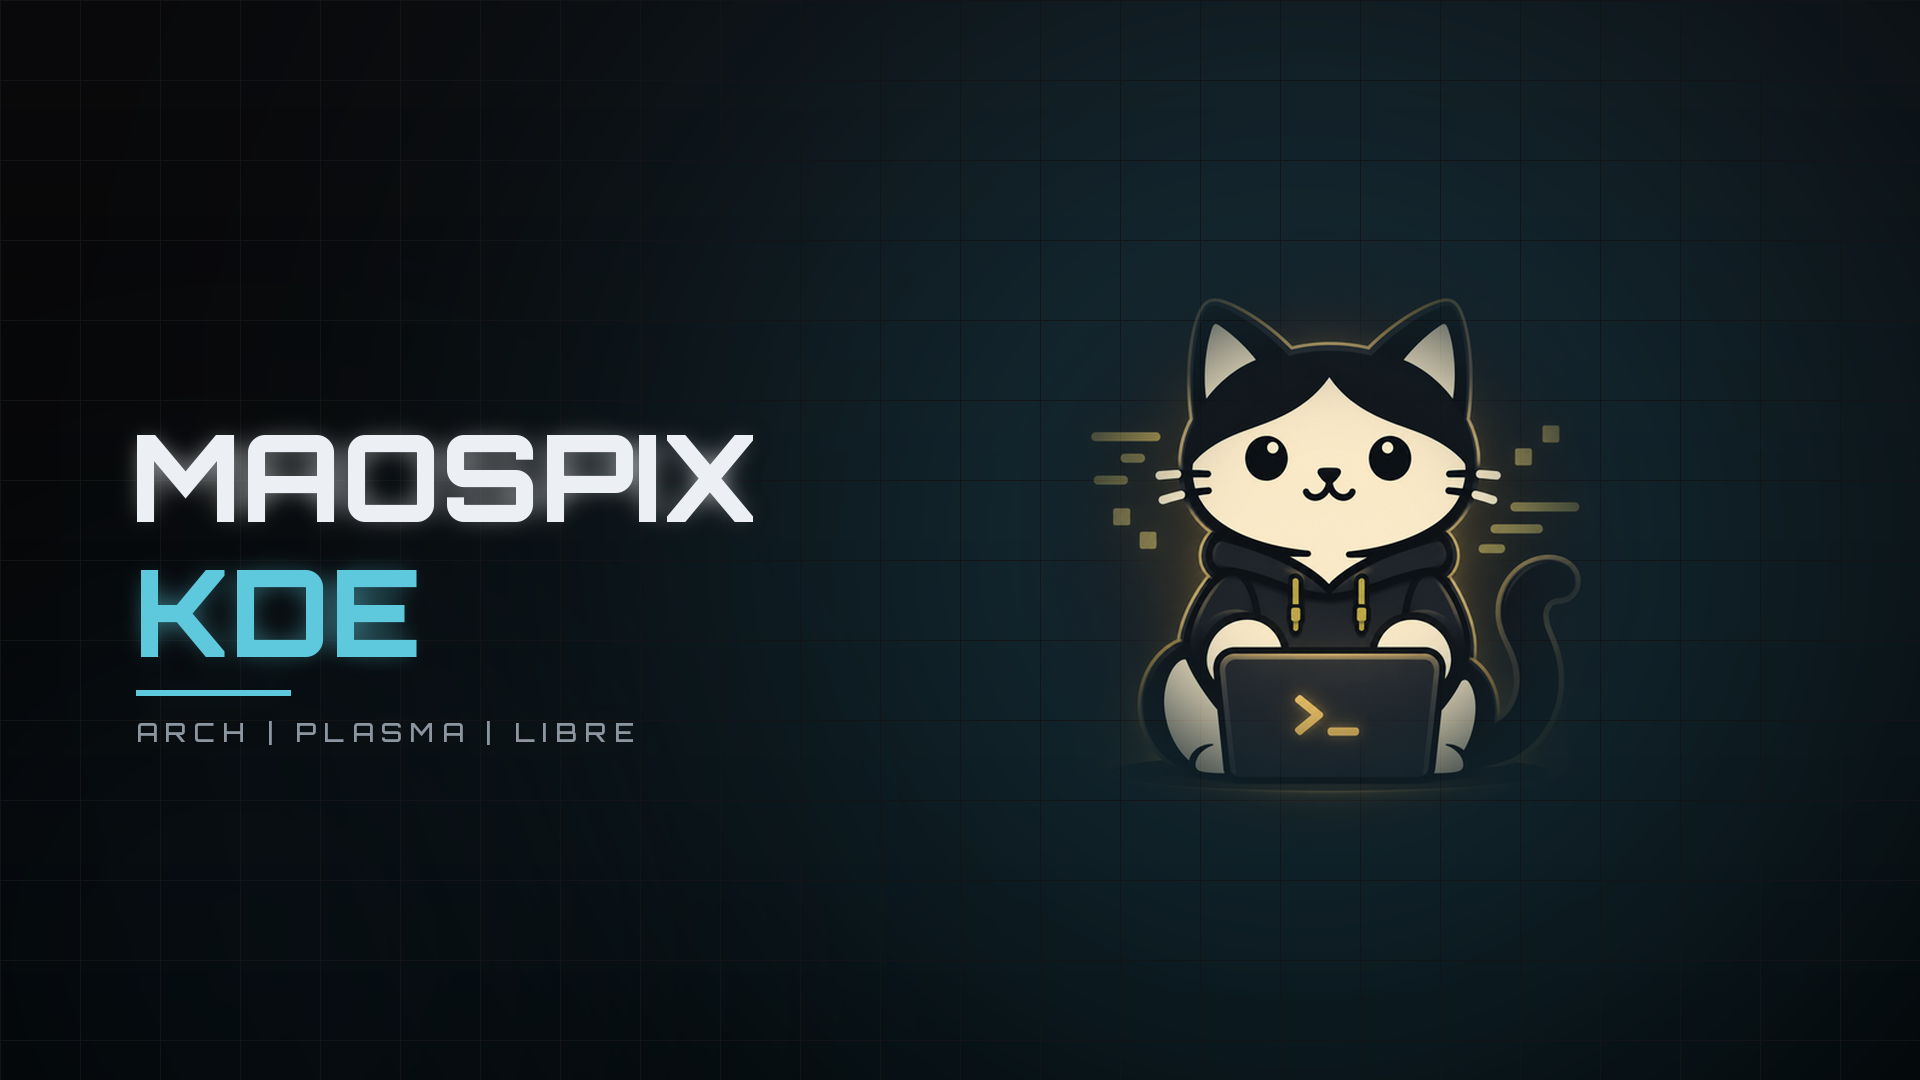
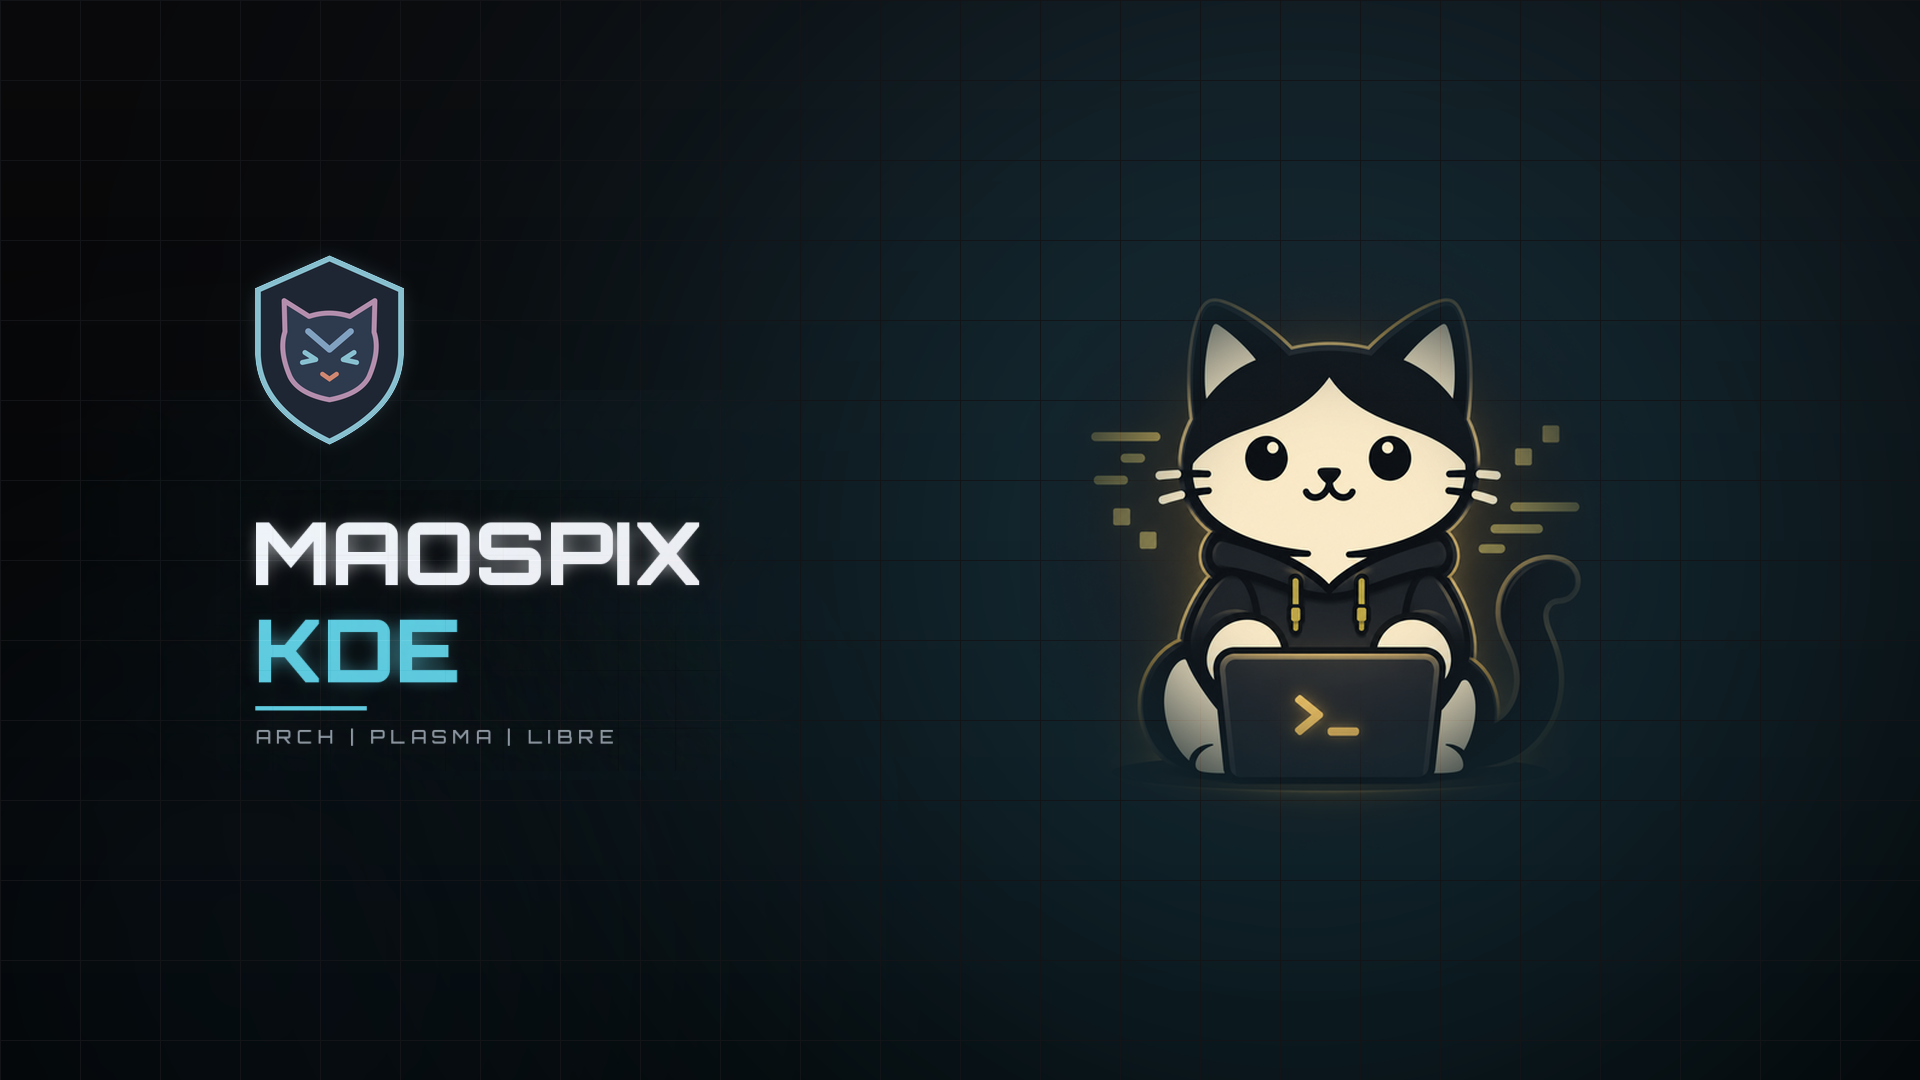
Escudo Maospix en fastfetch y wallpapers; texto de los wallpapers corrido a la derecha del dock (generadores en tools/)

Changed region(s): [[0.0625, 0.2444, 0.4062, 0.7028]]

diff --git a/tools/gen-wallpapers.py b/tools/gen-wallpapers.py
@@ -1,0 +1,93 @@
+#!/usr/bin/env python3
+"""Regenera los 4 wallpapers: borra el bloque de texto original, lo vuelve a pegar
+mas a la derecha (libre del dock en pantallas 16:10 o 4:3) y agrega el escudo encima.
+Uso: python tools/gen-wallpapers.py  (requiere numpy, opencv-python-headless, Pillow, rsvg-convert)"""
+import io, subprocess
+import numpy as np, cv2
+from PIL import Image, ImageFilter
+
+SRC = "assets/wallpapers-src/Maospix%s.png"
+DST = "archiso/airootfs/usr/share/wallpapers/Maospix%s/contents/images/1920x1080.png"
+SHIELD = "assets/logo/maospix-escudo.svg"
+BOX = (80, 390, 800, 780)          # x0, y0, x1, y1 del bloque de texto con su brillo
+BOX_MAIN_X1 = 758                  # en el principal, las lineas del gato empiezan en x=745
+SCALE, NEWX, NEWY = 0.72, 215, 490  # tamaño y posicion nuevos del bloque
+SH_H, SH_Y = 190, 255              # alto y posicion del escudo
+
+
+def low_fill(a, robust=False):
+    """Fondo suave sin texto: por cada fila se interpola entre los bordes limpios del bloque."""
+    x0, y0, x1, y1 = BOX
+    f = cv2.GaussianBlur(a, (0, 0), 3).astype(np.float32)
+    left = f[y0:y1, x0 - 14:x0 - 4].mean(1, keepdims=True)
+    right = f[y0:y1, x1 + 4:x1 + 14].mean(1, keepdims=True)
+    if robust:  # el borde derecho tiene detalles (lineas del gato): se usa la diferencia mediana
+        right = left + np.median(right - left, axis=0, keepdims=True)
+    t = np.linspace(0, 1, x1 - x0, dtype=np.float32)[None, :, None]
+    fill = left * (1 - t) + right * t
+    # suaviza verticalmente para que no queden rayas por el ruido de cada fila
+    return cv2.GaussianBlur(fill, (0, 0), sigmaX=0.1, sigmaY=6)
+
+
+def clean(a, grid):
+    x0, y0, x1, y1 = BOX
+    fill = low_fill(a, robust=not grid)
+    if grid:
+        # cuadricula de 80 px: se copia el detalle fino de un parche con la misma fase
+        hf = a.astype(np.float32) - cv2.GaussianBlur(a, (0, 0), 6).astype(np.float32)
+        mid = 590
+        det = np.concatenate([hf[y0 - 320:mid - 320, x0:x1], hf[mid + 240:y1 + 240, x0:x1]])
+        fill = fill + det
+    # bordes suaves para que el parche no se note; el texto original siempre se reemplaza
+    m = np.ones((y1 - y0, x1 - x0), np.float32)
+    ramp = np.linspace(0, 1, 40, dtype=np.float32)
+    m[:, :40] *= ramp
+    r = 40 if grid else 60
+    m[:, -r:] *= np.linspace(1, 0, r, dtype=np.float32)
+    if not grid:
+        m[:40] *= ramp[:, None]
+        m[-40:] *= ramp[::-1, None]
+        reg = a[y0:y1, x0:x1].astype(np.float32)
+        txt = ((reg - fill).sum(2) > 60).astype(np.uint8)
+        txt = cv2.dilate(txt, np.ones((3, 3), np.uint8), iterations=10)
+        txt = cv2.GaussianBlur(txt.astype(np.float32), (0, 0), 5)
+        m = np.maximum(m, np.clip(txt * 1.5, 0, 1))
+    m = m[..., None]
+    out = a.copy().astype(np.float32)
+    out[y0:y1, x0:x1] = fill * m + out[y0:y1, x0:x1] * (1 - m)
+    return np.clip(out, 0, 255).astype(np.uint8)
+
+
+def shield_img():
+    png = subprocess.run(["rsvg-convert", "-w", "1024", "-h", "1024", SHIELD], capture_output=True, check=True).stdout
+    im = Image.open(io.BytesIO(png)).convert("RGBA")
+    im = im.crop(im.getchannel("A").point(lambda v: 255 if v > 8 else 0).getbbox())
+    return im.resize((round(im.width * SH_H / im.height), SH_H), Image.LANCZOS)
+
+
+def build(name, grid):
+    global BOX
+    BOX = (80, 390, 800 if grid else BOX_MAIN_X1, 780)
+    orig = np.array(Image.open(SRC % name).convert("RGB"))
+    clean_img = clean(orig, grid)
+    x0, y0, x1, y1 = BOX
+    delta = orig[y0:y1, x0:x1].astype(np.int16) - clean_img[y0:y1, x0:x1].astype(np.int16)
+    w, h = round((x1 - x0) * SCALE), round((y1 - y0) * SCALE)
+    delta = cv2.resize(delta.astype(np.float32), (w, h), interpolation=cv2.INTER_AREA)
+    out = clean_img.astype(np.float32)
+    out[NEWY:NEWY + h, NEWX:NEWX + w] += delta
+    img = Image.fromarray(np.clip(out, 0, 255).astype(np.uint8))
+    sh = shield_img()
+    sx = NEWX + round((140 - x0 + 80) * 0) + 40   # alineado con el borde del texto
+    glow = Image.new("RGBA", img.size, (0, 0, 0, 0))
+    glow.paste(sh, (sx, SH_Y), sh)
+    g = glow.filter(ImageFilter.GaussianBlur(14))
+    img = Image.alpha_composite(img.convert("RGBA"), g)
+    img = Image.alpha_composite(img, glow)
+    img.convert("RGB").save(DST % name, optimize=True)
+
+
+if __name__ == "__main__":
+    build("", False)
+    for n in ("-Nord", "-Grafito", "-Negro"):
+        build(n, True)

diff --git a/tools/gen-fastfetch-logo.py b/tools/gen-fastfetch-logo.py
@@ -6,7 +6,14 @@ from PIL import Image
 R = "archiso/airootfs/usr/share/maospix/"
 png = subprocess.run(["rsvg-convert", "-w", "320", "-h", "320", R + "maospix-logo.svg"],
                      capture_output=True, check=True).stdout
-img = Image.open(io.BytesIO(png)).convert("RGBA").resize((40, 40), Image.BOX)
+img = Image.open(io.BytesIO(png)).convert("RGBA")
+img = img.crop(img.getchannel("A").point(lambda a: 255 if a > 8 else 0).getbbox())
+h = 40
+w = max(1, round(img.width * h / img.height))
+img = img.resize((w, h), Image.BOX)
+canvas = Image.new("RGBA", (40, 40), (0, 0, 0, 0))
+canvas.paste(img, ((40 - w) // 2, 0))
+img = canvas
 px = img.load()
 def get(x, y):
     r, g, b, a = px[x, y]
